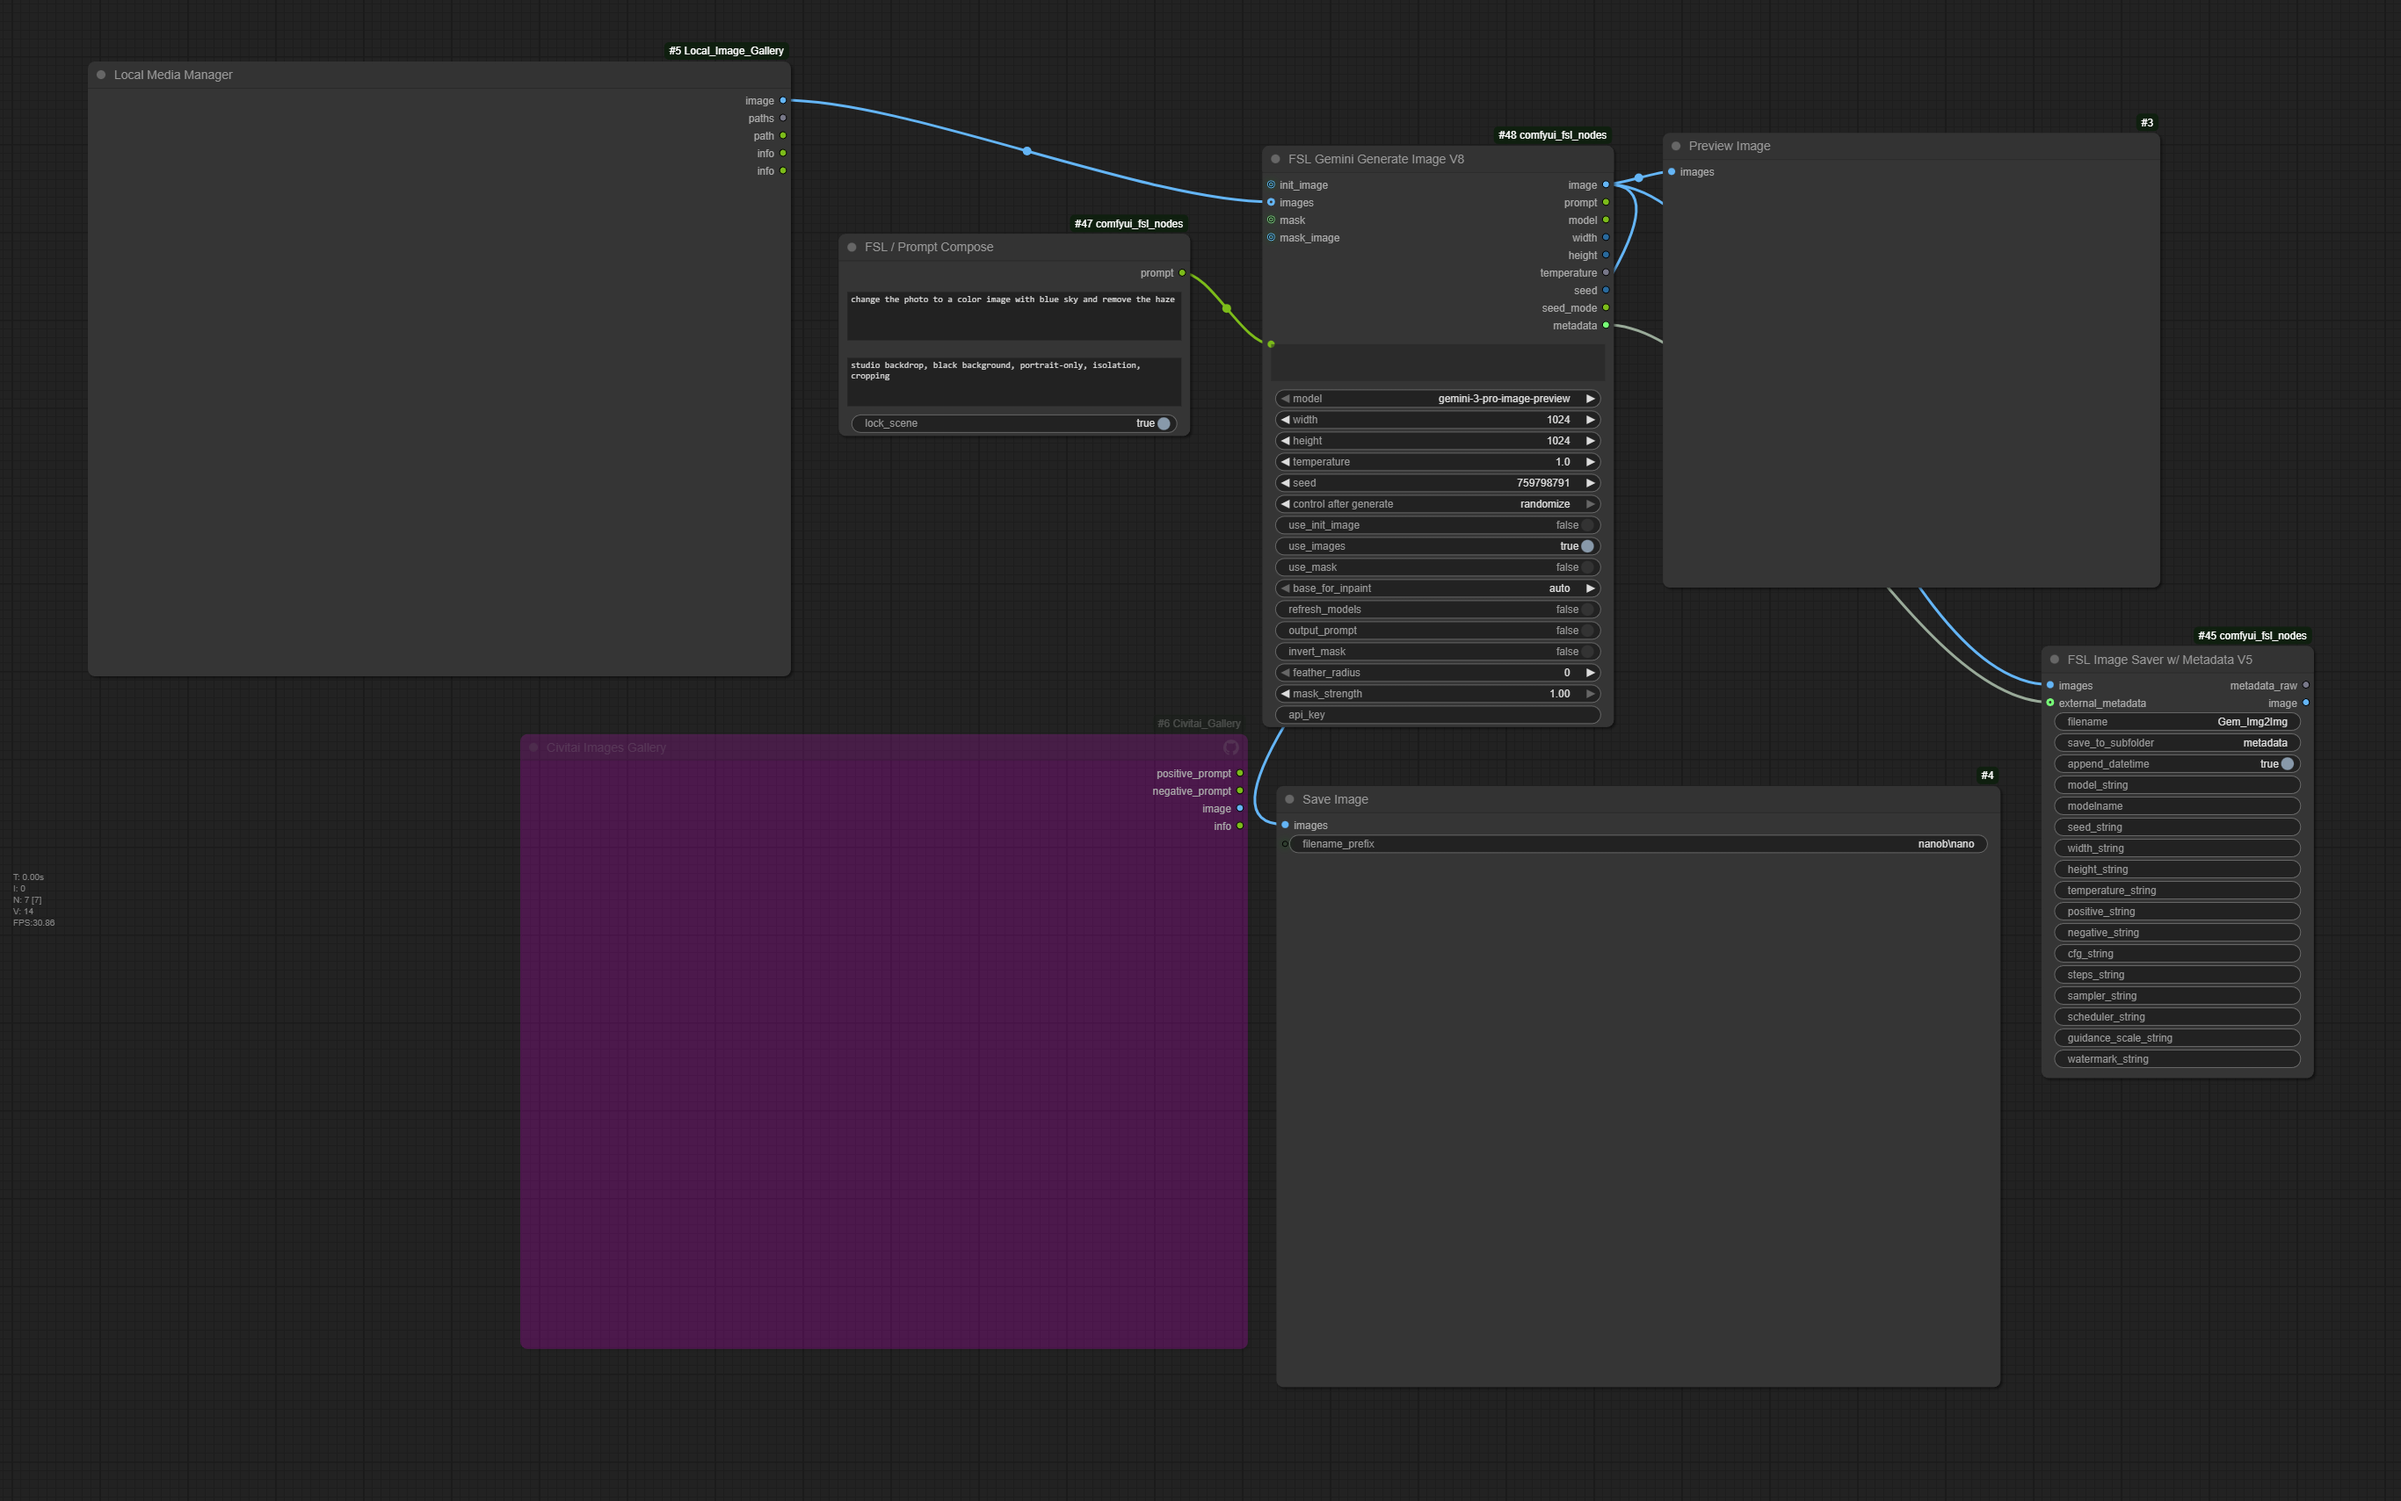
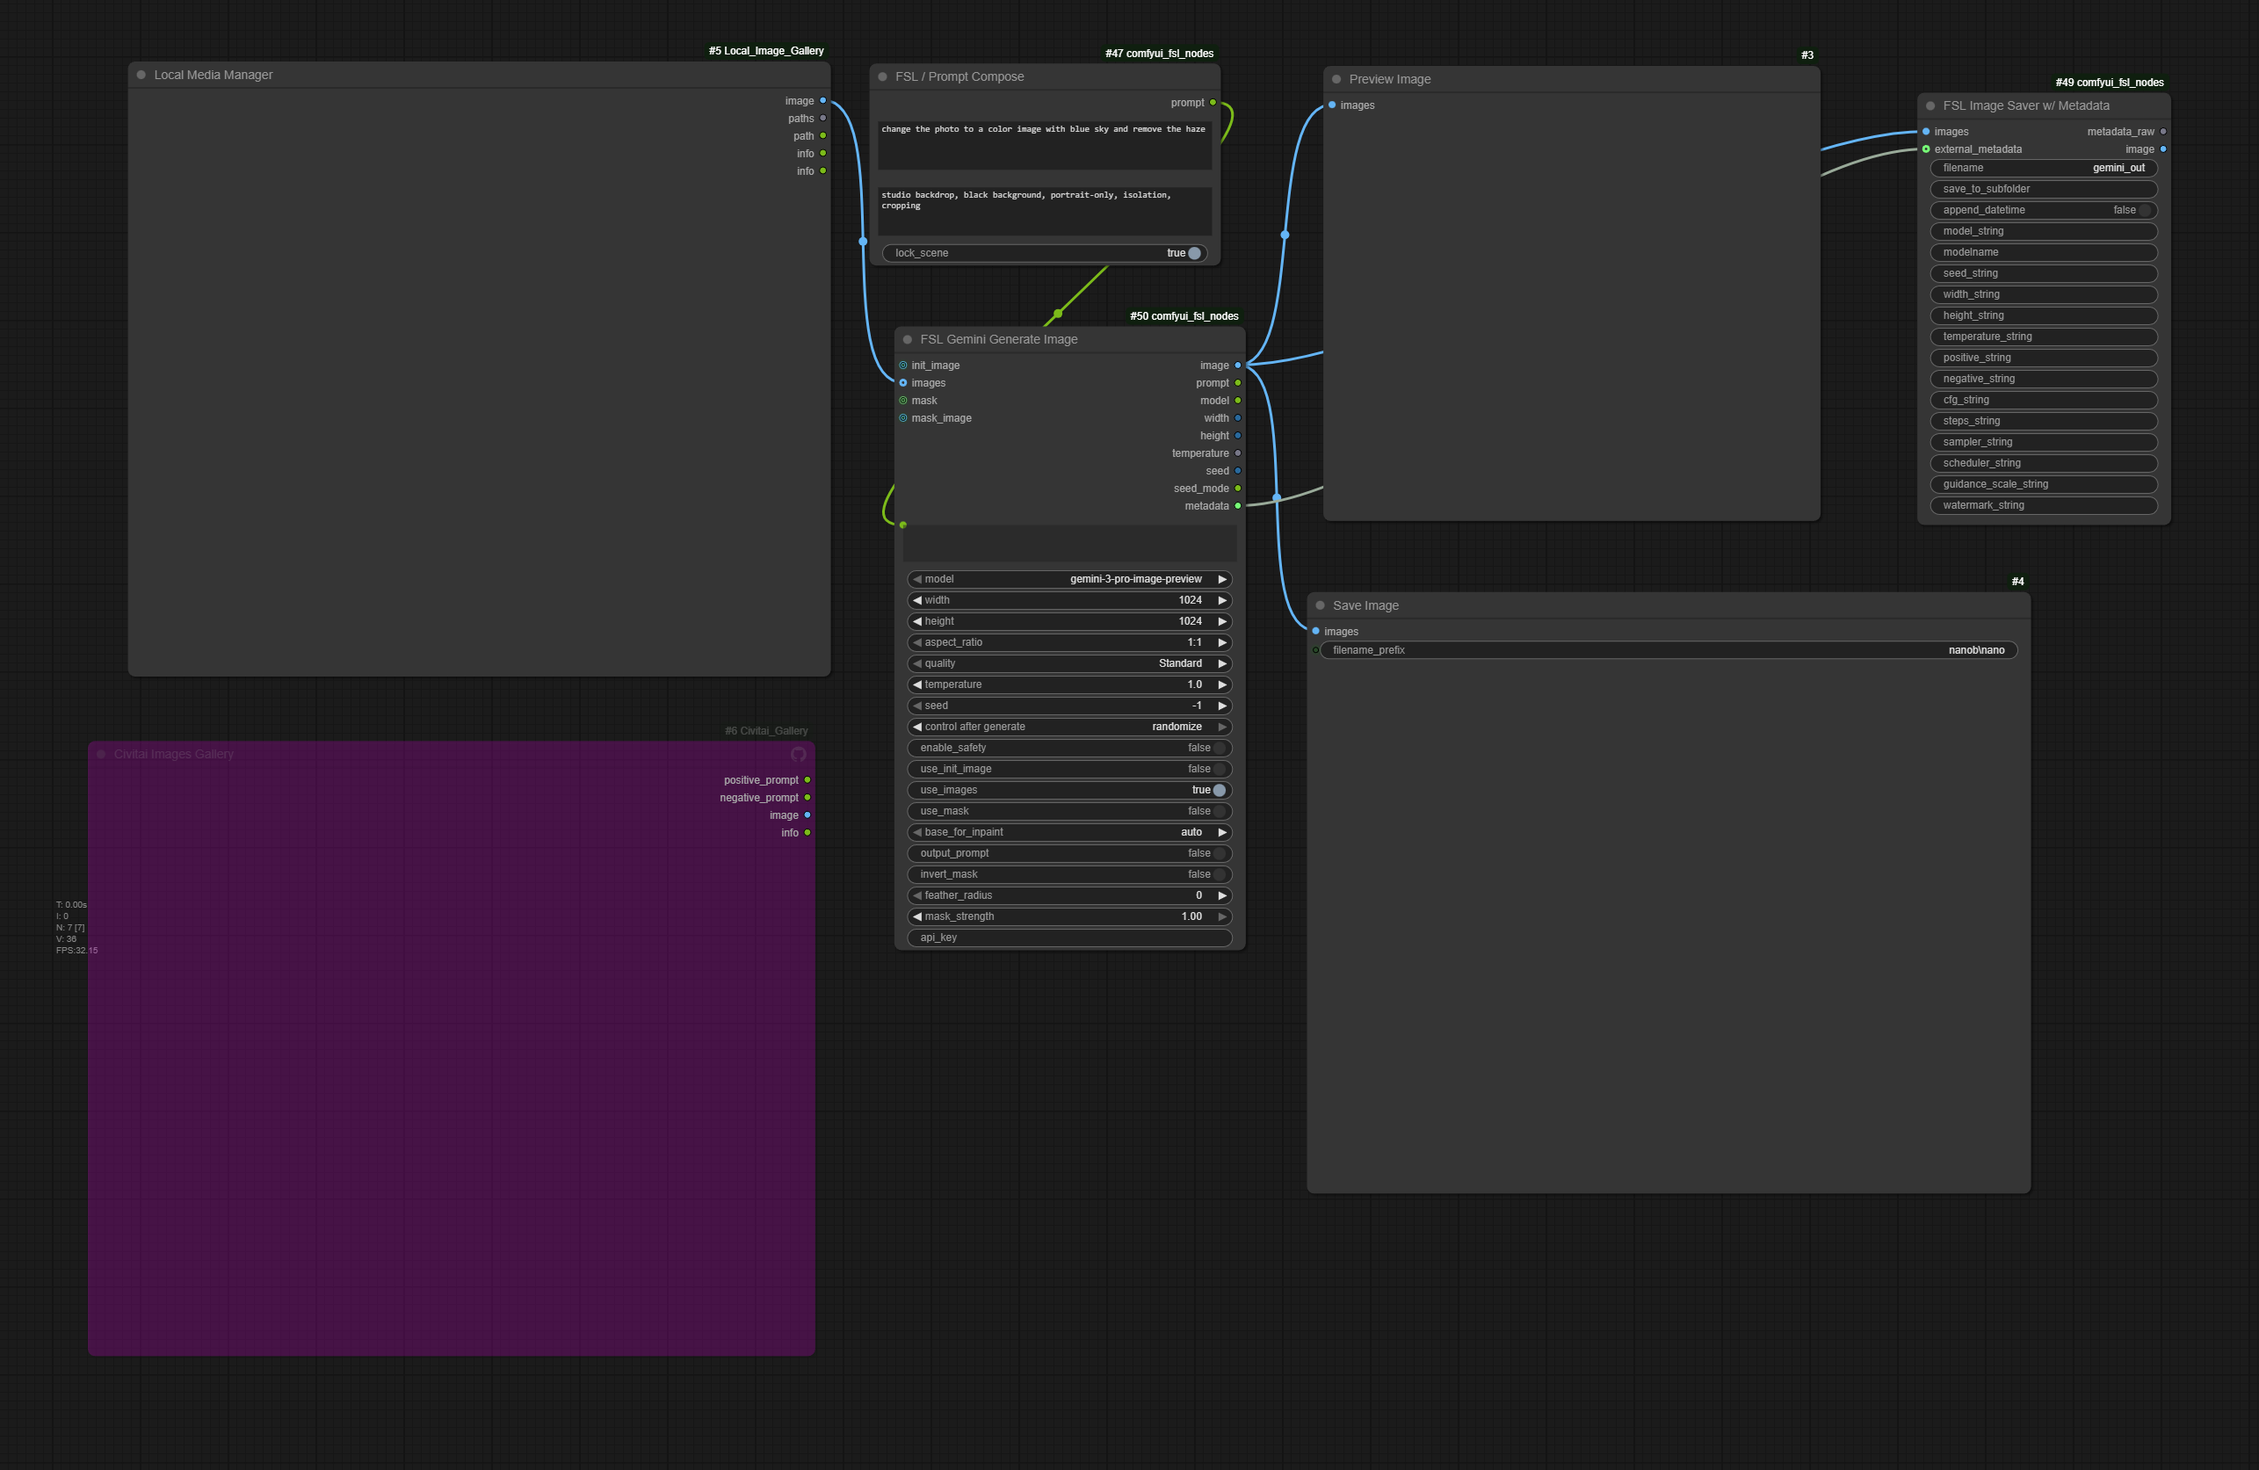
Update to normalize workflows and one node

diff --git a/FSLImageSaverWithMetadata.py b/FSLImageSaverWithMetadata.py
@@ -1,0 +1,243 @@
+import os
+import json
+from typing import Dict, Any, List, Tuple, Optional
+
+import numpy as np
+import torch
+from PIL import Image, PngImagePlugin
+import folder_paths
+from datetime import datetime
+
+
+class FSLImageSaverWithMetadata:
+    @classmethod
+    def INPUT_TYPES(cls) -> Dict[str, Any]:
+        return {
+            "required": {
+                "images": ("IMAGE",),
+                "filename": ("STRING", {"default": "gemini_out"}),
+                "save_to_subfolder": ("STRING", {"default": ""}),
+            },
+            "optional": {
+                "append_datetime": ("BOOLEAN", {"default": False}),
+                "model_string": ("STRING", {"default": ""}),
+                "modelname": ("STRING", {"default": ""}),
+                "seed_string": ("STRING", {"default": ""}),
+                "width_string": ("STRING", {"default": ""}),
+                "height_string": ("STRING", {"default": ""}),
+                "temperature_string": ("STRING", {"default": ""}),
+                "positive_string": ("STRING", {"default": ""}),
+                "negative_string": ("STRING", {"default": ""}),
+                "cfg_string": ("STRING", {"default": ""}),
+                "steps_string": ("STRING", {"default": ""}),
+                "sampler_string": ("STRING", {"default": ""}),
+                "scheduler_string": ("STRING", {"default": ""}),
+                "extra_info": ("STRING", {"default": ""}),
+                "external_metadata": ("DICT", {}),
+            },
+        }
+
+    RETURN_TYPES = ("DICT", "IMAGE",)
+    RETURN_NAMES = ("METADATA", "IMAGE",)
+    FUNCTION = "save_images"
+    CATEGORY = "FSL/IO"
+
+    def _to_numpy_image(self, img: torch.Tensor) -> np.ndarray:
+        """
+        Convert a single image tensor to a uint8 numpy array [H,W,C].
+        Expects img in [H,W,C] or [C,H,W] with float 0..1 or uint8.
+        """
+        if isinstance(img, torch.Tensor):
+            arr = img.detach().cpu().numpy()
+        else:
+            arr = np.asarray(img)
+
+        # Handle [C,H,W] -> [H,W,C]
+        if arr.ndim == 3 and arr.shape[0] in (1, 3, 4) and arr.shape[0] != arr.shape[-1]:
+            arr = np.transpose(arr, (1, 2, 0))
+
+        # Normalize float images to 0..255
+        if arr.dtype in (np.float32, np.float64, np.float16):
+            arr = np.clip(arr, 0.0, 1.0) * 255.0
+        arr = arr.astype(np.uint8)
+
+        # Ensure we have at least 3 channels
+        if arr.ndim == 2:
+            arr = np.stack([arr] * 3, axis=-1)
+
+        if arr.shape[-1] == 1:
+            arr = np.repeat(arr, 3, axis=-1)
+
+        return arr
+
+    @staticmethod
+    def _human_readable_size(num_bytes: int) -> str:
+        """
+        Return a human-readable file size, e.g. '1.23 MB'.
+        """
+        if num_bytes is None:
+            return ""
+        units = ["B", "KB", "MB", "GB", "TB", "PB"]
+        size = float(num_bytes)
+        for unit in units:
+            if size < 1024.0:
+                return f"{size:.2f} {unit}"
+            size /= 1024.0
+        return f"{size:.2f} PB"
+
+    def save_images(
+        self,
+        images: torch.Tensor,
+        filename: str,
+        save_to_subfolder: str = "",
+        append_datetime: bool = False,
+        model_string: str = "",
+        modelname: str = "",
+        seed_string: str = "",
+        width_string: str = "",
+        height_string: str = "",
+        temperature_string: str = "",
+        positive_string: str = "",
+        negative_string: str = "",
+        cfg_string: str = "",
+        steps_string: str = "",
+        sampler_string: str = "",
+        scheduler_string: str = "",
+        extra_info: str = "",
+        external_metadata: Optional[Dict[str, Any]] = None,
+    ) -> Tuple[Dict[str, Any], torch.Tensor]:
+
+        # Base Comfy output directory
+        base = folder_paths.get_output_directory()
+
+        # User subfolder, normalized and forced to be relative
+        sub = (save_to_subfolder or "").strip()
+        sub = os.path.normpath(sub).replace("\\", "/").lstrip("/")
+
+        # Absolute directory we will actually save into
+        outdir = os.path.join(base, sub) if sub else base
+        os.makedirs(outdir, exist_ok=True)
+
+        # Normalize batch dimension
+        if images.dim() == 3:
+            images = images.unsqueeze(0)
+
+        # One canonical, timezone-aware timestamp used everywhere
+        now_local = datetime.now().astimezone()
+        ts_file = now_local.strftime("%Y%m%d_%H%M%S")        # e.g. 20251014_163733
+        iso_human = now_local.isoformat(timespec="seconds")  # e.g. 2025-10-14T16:37:33-04:00
+
+        if append_datetime:
+            filename = f"{filename}_{ts_file}"
+
+        model_value = (model_string or modelname).strip()
+
+        # Build a "parameters" text similar to standard Comfy / A1111
+        lines: List[str] = []
+        if model_value:
+            lines.append("model: " + model_value)
+        if seed_string:
+            lines.append("seed: " + seed_string)
+        if width_string or height_string:
+            lines.append(f"size: {width_string}x{height_string}")
+        if temperature_string:
+            lines.append("temperature: " + temperature_string)
+        if cfg_string:
+            lines.append("cfg: " + cfg_string)
+        if steps_string:
+            lines.append("steps: " + steps_string)
+        if sampler_string:
+            lines.append("sampler: " + sampler_string)
+        if scheduler_string:
+            lines.append("scheduler: " + scheduler_string)
+        if positive_string:
+            lines.append("positive: " + positive_string)
+        if negative_string:
+            lines.append("negative: " + negative_string)
+        if extra_info:
+            lines.append("extra: " + extra_info)
+
+        parameters_text = "\n".join(lines)
+
+        pnginfo = PngImagePlugin.PngInfo()
+        if parameters_text:
+            pnginfo.add_text("parameters", parameters_text)
+        if external_metadata:
+            try:
+                pnginfo.add_text("fsl_metadata", json.dumps(external_metadata, ensure_ascii=False))
+            except Exception:
+                pnginfo.add_text("fsl_metadata", str(external_metadata))
+
+        metadata_raw_out: Dict[str, Any] = {
+            "fileinfo": {
+                "filename": "",
+                "resolution": "",
+                "date": "",
+                "size_bytes": 0,
+                "size_human": "",
+                "size": "",
+                "format": "PNG",
+            }
+        }
+
+        preview_tensor: Optional[torch.Tensor] = None
+
+        for i in range(images.shape[0]):
+            np_img = self._to_numpy_image(images[i])
+            h, w = np_img.shape[0], np_img.shape[1]
+
+            # Explicit mode preserves alpha if present
+            mode = "RGBA" if np_img.shape[-1] == 4 else ("RGB" if np_img.shape[-1] == 3 else None)
+            pil = Image.fromarray(np_img, mode=mode) if mode else Image.fromarray(np_img)
+
+            # Use Comfy's helper with a RELATIVE subfolder, not an absolute path
+            try:
+                # 'sub' is something like "metadata/gem3" or ""
+                ret = folder_paths.get_save_image_path(filename, sub, i)
+            except Exception:
+                ret = None
+
+            # Known return: (full_output_folder, filename_prefix, counter, subfolder, filename_with_subfolder)
+            if isinstance(ret, (list, tuple)) and len(ret) >= 3:
+                full_output_folder, filename_prefix, counter = ret[0], ret[1], ret[2]
+                path = os.path.join(full_output_folder, f"{filename_prefix}_{counter:05}.png")
+            else:
+                # Fallback: ensure our own dir exists and build the path manually
+                os.makedirs(outdir, exist_ok=True)
+                path = os.path.join(outdir, f"{filename}_{i:05}.png")
+
+            pil.save(path, format="PNG", pnginfo=pnginfo)
+
+            # Fill metadata_raw_out only from the first image (representative)
+            if i == 0:
+                try:
+                    stat = os.stat(path)
+                    size_bytes = stat.st_size
+                except Exception:
+                    size_bytes = 0
+
+                metadata_raw_out["fileinfo"] = {
+                    "filename": os.path.basename(path),
+                    "resolution": f"{w}x{h}",
+                    "date": iso_human,
+                    "size_bytes": size_bytes,
+                    "size_human": self._human_readable_size(size_bytes),
+                    "size": self._human_readable_size(size_bytes),
+                    "format": "PNG",
+                }
+
+            # Keep first image as preview
+            if preview_tensor is None:
+                # Return normalized [1,H,W,C] float tensor
+                preview_tensor = torch.from_numpy(np_img.astype(np.float32) / 255.0)[None, ...]
+
+        # Safety: if nothing was saved (empty batch), provide a blank preview
+        if preview_tensor is None:
+            preview_tensor = torch.zeros((1, 64, 64, 4), dtype=torch.float32)
+
+        # Return METADATA first (compat), IMAGE second (for optional preview wiring)
+        return (metadata_raw_out, preview_tensor,)
+
+
+NODE_CLASS_MAPPINGS = {"FSLImageSaverWithMetadata": FSLImageSaverWithMetadata}
+NODE_DISPLAY_NAME_MAPPINGS = {"FSLImageSaverWithMetadata": "FSL Image Saver w/ Metadata"}

diff --git a/README.md b/README.md
@@ -36,7 +36,8 @@ Located in the [`Comfyui_FSL_Nodes/`](https://github.com/fredlef/comfyui_project
 *   **fsl_image_memory.py:** A set of 4 nodes (Store, Recall, Clear, Clear All) to save images into memory using a specific 'key' for complex workflow routing.
 *   **fsl_prompt_compose.py:** Handles Positive/Negative prompts and "Scene Lock." When `lock_scene` is True, it injects instructions to freeze composition, lighting, and subjects while only changing specific details.
 *   **fsl_ensure_nhwc_batch.py:** Guarantees incoming image tensors are converted to `[N, H, W, C]` layout, ensuring compatibility across different node packs.
-*   **FSLImageSaverWithMetadataV5.py:** Saves images with embedded metadata, readable via the `LoadImage-w-Metadata` workflow.
+*   **FSLImageSaverWithMetadataV5.py:** Legacy metadata node.  Deversioned in the newest update. Saves images with embedded metadata, readable via the `LoadImage-w-Metadata` workflow.
+*   **FSLImageSaverWithMetadata.py:** This is the most current version of this node and will be the only one maintained going forward.
 *   **fsl_composite_with_mask_cropped.py:** *[Legacy]* Removes alpha channel but keeps transparent parts as background color.
 *   **fsl_save_and_strip_alpha:** *[Legacy]* Strips alpha channel from RGBA images.
 
